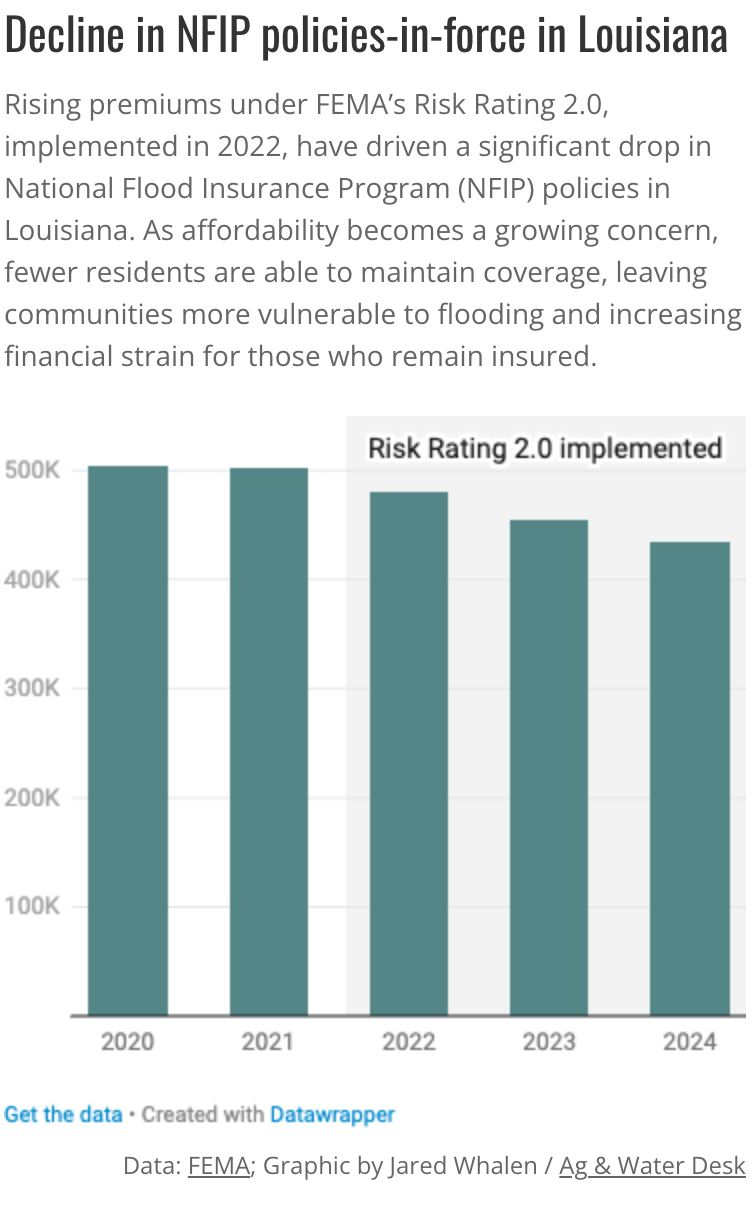
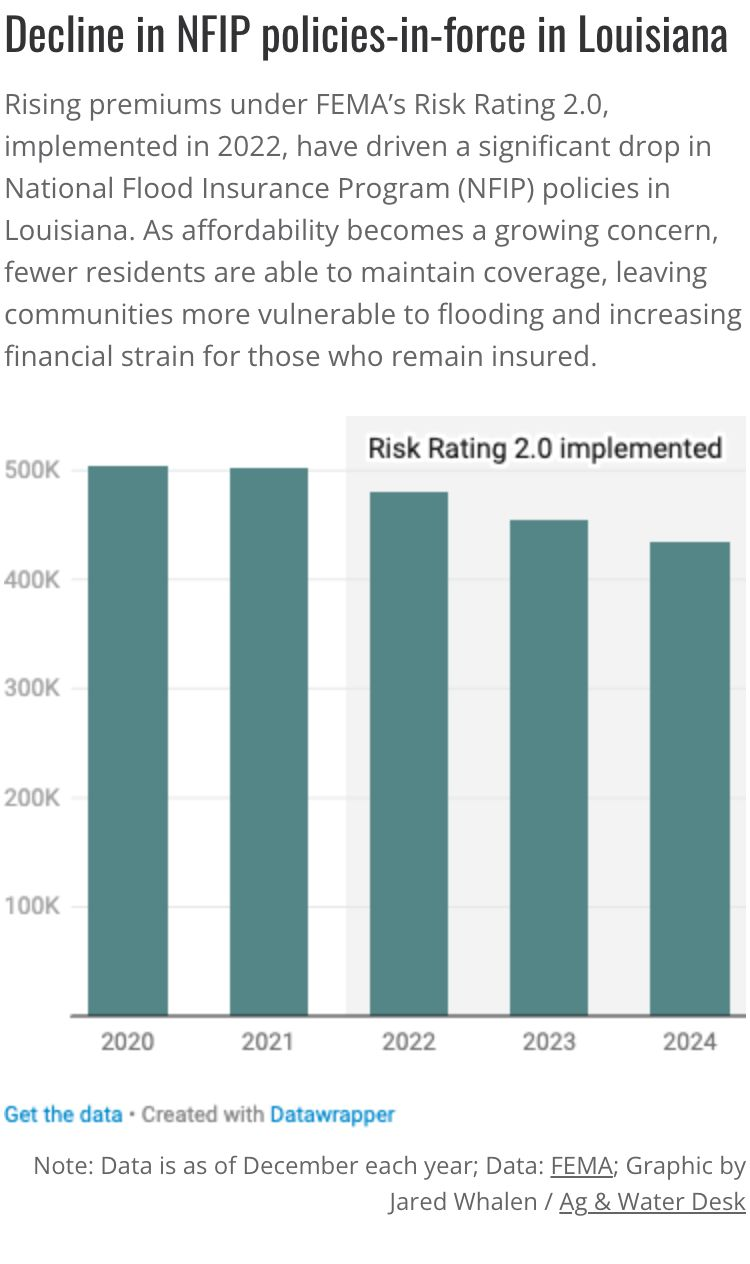
update github pages

diff --git a/docs/assets/bundle.js b/docs/assets/bundle.js
@@ -1,8 +1,8 @@
-var $e=Object.defineProperty;var xe=(e,t,n)=>t in e?$e(e,t,{enumerable:!0,configurable:!0,writable:!0,value:n}):e[t]=n;var V=(e,t,n)=>(xe(e,typeof t!="symbol"?t+"":t,n),n);(function(){const t=document.createElement("link").relList;if(t&&t.supports&&t.supports("modulepreload"))return;for(const r of document.querySelectorAll('link[rel="modulepreload"]'))i(r);new MutationObserver(r=>{for(const o of r)if(o.type==="childList")for(const g of o.addedNodes)g.tagName==="LINK"&&g.rel==="modulepreload"&&i(g)}).observe(document,{childList:!0,subtree:!0});function n(r){const o={};return r.integrity&&(o.integrity=r.integrity),r.referrerPolicy&&(o.referrerPolicy=r.referrerPolicy),r.crossOrigin==="use-credentials"?o.credentials="include":r.crossOrigin==="anonymous"?o.credentials="omit":o.credentials="same-origin",o}function i(r){if(r.ep)return;r.ep=!0;const o=n(r);fetch(r.href,o)}})();function y(){}function ve(e){return e()}function oe(){return Object.create(null)}function L(e){e.forEach(ve)}function U(e){return typeof e=="function"}function q(e,t){return e!=e?t==t:e!==t||e&&typeof e=="object"||typeof e=="function"}let k;function Me(e,t){return e===t?!0:(k||(k=document.createElement("a")),k.href=t,e===k.href)}function Te(e){return Object.keys(e).length===0}function be(e,...t){if(e==null){for(const i of t)i(void 0);return y}const n=e.subscribe(...t);return n.unsubscribe?()=>n.unsubscribe():n}function le(e,t,n){e.$$.on_destroy.push(be(t,n))}function ue(e,t,n){return e.set(n),t}const Ae=typeof window<"u"?window:typeof globalThis<"u"?globalThis:global;function x(e,t){e.appendChild(t)}function J(e,t,n){e.insertBefore(t,n||null)}function H(e){e.parentNode&&e.parentNode.removeChild(e)}function T(e){return document.createElement(e)}function Ce(e){return document.createTextNode(e)}function N(){return Ce(" ")}function X(e,t,n,i){return e.addEventListener(t,n,i),()=>e.removeEventListener(t,n,i)}function I(e,t,n){n==null?e.removeAttribute(t):e.getAttribute(t)!==n&&e.setAttribute(t,n)}function Pe(e){return Array.from(e.childNodes)}function G(e,t,n,i){n==null?e.style.removeProperty(t):e.style.setProperty(t,n,i?"important":"")}let j;function Se(){if(j===void 0){j=!1;try{typeof window<"u"&&window.parent&&window.parent.document}catch{j=!0}}return j}function We(e,t){getComputedStyle(e).position==="static"&&(e.style.position="relative");const i=T("iframe");i.setAttribute("style","display: block; position: absolute; top: 0; left: 0; width: 100%; height: 100%; overflow: hidden; border: 0; opacity: 0; pointer-events: none; z-index: -1;"),i.setAttribute("aria-hidden","true"),i.tabIndex=-1;const r=Se();let o;return r?(i.src="data:text/html,<script>onresize=function(){parent.postMessage(0,'*')}<\/script>",o=X(window,"message",g=>{g.source===i.contentWindow&&t()})):(i.src="about:blank",i.onload=()=>{o=X(i.contentWindow,"resize",t),t()}),x(e,i),()=>{(r||o&&i.contentWindow)&&o(),H(i)}}let O;function R(e){O=e}function Ne(){if(!O)throw new Error("Function called outside component initialization");return O}function Re(e){Ne().$$.on_mount.push(e)}const P=[],de=[];let S=[];const fe=[],He=Promise.resolve();let Q=!1;function Oe(){Q||(Q=!0,He.then(_e))}function F(e){S.push(e)}const K=new Set;let A=0;function _e(){if(A!==0)return;const e=O;do{try{for(;A<P.length;){const t=P[A];A++,R(t),Le(t.$$)}}catch(t){throw P.length=0,A=0,t}for(R(null),P.length=0,A=0;de.length;)de.pop()();for(let t=0;t<S.length;t+=1){const n=S[t];K.has(n)||(K.add(n),n())}S.length=0}while(P.length);for(;fe.length;)fe.pop()();Q=!1,K.clear(),R(e)}function Le(e){if(e.fragment!==null){e.update(),L(e.before_update);const t=e.dirty;e.dirty=[-1],e.fragment&&e.fragment.p(e.ctx,t),e.after_update.forEach(F)}}function ke(e){const t=[],n=[];S.forEach(i=>e.indexOf(i)===-1?t.push(i):n.push(i)),n.forEach(i=>i()),S=t}const B=new Set;let je;function Z(e,t){e&&e.i&&(B.delete(e),e.i(t))}function ce(e,t,n,i){if(e&&e.o){if(B.has(e))return;B.add(e),je.c.push(()=>{B.delete(e),i&&(n&&e.d(1),i())}),e.o(t)}else i&&i()}function he(e){e&&e.c()}function ee(e,t,n){const{fragment:i,after_update:r}=e.$$;i&&i.m(t,n),F(()=>{const o=e.$$.on_mount.map(ve).filter(U);e.$$.on_destroy?e.$$.on_destroy.push(...o):L(o),e.$$.on_mount=[]}),r.forEach(F)}function te(e,t){const n=e.$$;n.fragment!==null&&(ke(n.after_update),L(n.on_destroy),n.fragment&&n.fragment.d(t),n.on_destroy=n.fragment=null,n.ctx=[])}function ze(e,t){e.$$.dirty[0]===-1&&(P.push(e),Oe(),e.$$.dirty.fill(0)),e.$$.dirty[t/31|0]|=1<<t%31}function ie(e,t,n,i,r,o,g=null,h=[-1]){const w=O;R(e);const l=e.$$={fragment:null,ctx:[],props:o,update:y,not_equal:r,bound:oe(),on_mount:[],on_destroy:[],on_disconnect:[],before_update:[],after_update:[],context:new Map(t.context||(w?w.$$.context:[])),callbacks:oe(),dirty:h,skip_bound:!1,root:t.target||w.$$.root};g&&g(l.root);let _=!1;if(l.ctx=n?n(e,t.props||{},(m,u,...f)=>{const c=f.length?f[0]:u;return l.ctx&&r(l.ctx[m],l.ctx[m]=c)&&(!l.skip_bound&&l.bound[m]&&l.bound[m](c),_&&ze(e,m)),u}):[],l.update(),_=!0,L(l.before_update),l.fragment=i?i(l.ctx):!1,t.target){if(t.hydrate){const m=Pe(t.target);l.fragment&&l.fragment.l(m),m.forEach(H)}else l.fragment&&l.fragment.c();t.intro&&Z(e.$$.fragment),ee(e,t.target,t.anchor),_e()}R(w)}class se{constructor(){V(this,"$$");V(this,"$$set")}$destroy(){te(this,1),this.$destroy=y}$on(t,n){if(!U(n))return y;const i=this.$$.callbacks[t]||(this.$$.callbacks[t]=[]);return i.push(n),()=>{const r=i.indexOf(n);r!==-1&&i.splice(r,1)}}$set(t){this.$$set&&!Te(t)&&(this.$$.skip_bound=!0,this.$$set(t),this.$$.skip_bound=!1)}}const Be="4";typeof window<"u"&&(window.__svelte||(window.__svelte={v:new Set})).v.add(Be);var z=typeof globalThis<"u"?globalThis:typeof window<"u"?window:typeof global<"u"?global:typeof self<"u"?self:{};function ye(e){return e&&e.__esModule&&Object.prototype.hasOwnProperty.call(e,"default")?e.default:e}var Fe="Expected a function",ge=0/0,De="[object Symbol]",Ue=/^\s+|\s+$/g,qe=/^[-+]0x[0-9a-f]+$/i,Ve=/^0b[01]+$/i,Ge=/^0o[0-7]+$/i,Ke=parseInt,Ye=typeof z=="object"&&z&&z.Object===Object&&z,Je=typeof self=="object"&&self&&self.Object===Object&&self,Xe=Ye||Je||Function("return this")(),Qe=Object.prototype,Ze=Qe.toString,et=Math.max,tt=Math.min,Y=function(){return Xe.Date.now()};function nt(e,t,n){var i,r,o,g,h,w,l=0,_=!1,m=!1,u=!0;if(typeof e!="function")throw new TypeError(Fe);t=me(t)||0,ne(n)&&(_=!!n.leading,m="maxWait"in n,o=m?et(me(n.maxWait)||0,t):o,u="trailing"in n?!!n.trailing:u);function f(v){var M=i,W=r;return i=r=void 0,l=v,g=e.apply(W,M),g}function c(v){return l=v,h=setTimeout(a,t),_?f(v):g}function p(v){var M=v-w,W=v-l,ae=t-M;return m?tt(ae,o-W):ae}function s(v){var M=v-w,W=v-l;return w===void 0||M>=t||M<0||m&&W>=o}function a(){var v=Y();if(s(v))return d(v);h=setTimeout(a,p(v))}function d(v){return h=void 0,u&&i?f(v):(i=r=void 0,g)}function b(){h!==void 0&&clearTimeout(h),l=0,i=w=r=h=void 0}function E(){return h===void 0?g:d(Y())}function $(){var v=Y(),M=s(v);if(i=arguments,r=this,w=v,M){if(h===void 0)return c(w);if(m)return h=setTimeout(a,t),f(w)}return h===void 0&&(h=setTimeout(a,t)),g}return $.cancel=b,$.flush=E,$}function ne(e){var t=typeof e;return!!e&&(t=="object"||t=="function")}function it(e){return!!e&&typeof e=="object"}function st(e){return typeof e=="symbol"||it(e)&&Ze.call(e)==De}function me(e){if(typeof e=="number")return e;if(st(e))return ge;if(ne(e)){var t=typeof e.valueOf=="function"?e.valueOf():e;e=ne(t)?t+"":t}if(typeof e!="string")return e===0?e:+e;e=e.replace(Ue,"");var n=Ve.test(e);return n||Ge.test(e)?Ke(e.slice(2),n?2:8):qe.test(e)?ge:+e}var rt=nt;const pe=ye(rt),C=[];function at(e,t){return{subscribe:re(e,t).subscribe}}function re(e,t=y){let n;const i=new Set;function r(h){if(q(e,h)&&(e=h,n)){const w=!C.length;for(const l of i)l[1](),C.push(l,e);if(w){for(let l=0;l<C.length;l+=2)C[l][0](C[l+1]);C.length=0}}}function o(h){r(h(e))}function g(h,w=y){const l=[h,w];return i.add(l),i.size===1&&(n=t(r,o)||y),h(e),()=>{i.delete(l),i.size===0&&n&&(n(),n=null)}}return{set:r,update:o,subscribe:g}}function Ie(e,t,n){const i=!Array.isArray(e),r=i?[e]:e;if(!r.every(Boolean))throw new Error("derived() expects stores as input, got a falsy value");const o=t.length<2;return at(n,(g,h)=>{let w=!1;const l=[];let _=0,m=y;const u=()=>{if(_)return;m();const c=t(i?l[0]:l,g,h);o?g(c):m=U(c)?c:y},f=r.map((c,p)=>be(c,s=>{l[p]=s,_&=~(1<<p),w&&u()},()=>{_|=1<<p}));return w=!0,u(),function(){L(f),m(),w=!1}})}const D=re(window.innerWidth),we=re(window.innerHeight);Ie(D,e=>e<=560);Ie(D,e=>e>1200);const{window:ot}=Ae;function lt(e){let t,n;return{c:y,m(i,r){t||(n=X(ot,"resize",function(){U(pe(e[1],e[0]))&&pe(e[1],e[0]).apply(this,arguments)}),t=!0)},p(i,[r]){e=i},i:y,o:y,d(i){t=!1,n()}}}function ut(e,t,n){let i,r;le(e,we,h=>n(2,i=h)),le(e,D,h=>n(3,r=h));let{debounceDur:o=100}=t;const g=()=>{ue(D,r=window.innerWidth,r),ue(we,i=window.innerHeight,i)};return Re(()=>{g()}),e.$$set=h=>{"debounceDur"in h&&n(0,o=h.debounceDur)},[o,g]}class dt extends se{constructor(t){super(),ie(this,t,ut,lt,q,{debounceDur:0})}}function ft(e){let t,n;return{c(){t=T("iframe"),I(t,"title","Decline in NFIP policies-in-force in Louisiana"),I(t,"aria-label","Column Chart"),I(t,"id","datawrapper-chart-KzFxw"),Me(t.src,n="https://datawrapper.dwcdn.net/KzFxw/1/")||I(t,"src",n),I(t,"scrolling","no"),I(t,"frameborder","0"),G(t,"width","0"),G(t,"min-width","100%",1),G(t,"border","none"),I(t,"height","356"),I(t,"data-external","1")},m(i,r){J(i,t,r)},p:y,i:y,o:y,d(i){i&&H(t)}}}function ct(e){return function(){window.addEventListener("message",function(t){if(t.data["datawrapper-height"]!==void 0){var n=document.querySelectorAll("iframe");for(var i in t.data["datawrapper-height"])for(var r=0;r<n.length;r++)if(n[r].contentWindow===t.source){var o=t.data["datawrapper-height"][i]+"px";n[r].style.height=o}}})}(),[]}class ht extends se{constructor(t){super(),ie(this,t,ct,ft,q,{})}}var Ee={exports:{}};/*! pym.js - v1.3.2 - 2018-02-13 */(function(e){(function(t){e.exports?e.exports=t():window.pym=t.call(this)})(function(){var t="xPYMx",n={},i=function(u){var f=document.createEvent("Event");f.initEvent("pym:"+u,!0,!0),document.dispatchEvent(f)},r=function(u){var f=new RegExp("[\\?&]"+u.replace(/[\[]/,"\\[").replace(/[\]]/,"\\]")+"=([^&#]*)"),c=f.exec(location.search);return c===null?"":decodeURIComponent(c[1].replace(/\+/g," "))},o=function(u,f){if(!(f.xdomain!=="*"&&!u.origin.match(new RegExp(f.xdomain+"$")))&&typeof u.data=="string")return!0},g=function(u){var f=/^(?:(?:https?|mailto|ftp):|[^&:/?#]*(?:[/?#]|$))/gi;if(u.match(f))return!0},h=function(u,f,c){var p=["pym",u,f,c];return p.join(t)},w=function(u){var f=["pym",u,"(\\S+)","(.*)"];return new RegExp("^"+f.join(t)+"$")},l=Date.now||function(){return new Date().getTime()},_=function(u,f,c){var p,s,a,d=null,b=0;c||(c={});var E=function(){b=c.leading===!1?0:l(),d=null,a=u.apply(p,s),d||(p=s=null)};return function(){var $=l();!b&&c.leading===!1&&(b=$);var v=f-($-b);return p=this,s=arguments,v<=0||v>f?(d&&(clearTimeout(d),d=null),b=$,a=u.apply(p,s),d||(p=s=null)):!d&&c.trailing!==!1&&(d=setTimeout(E,v)),a}},m=function(){for(var u=n.autoInitInstances.length,f=u-1;f>=0;f--){var c=n.autoInitInstances[f];c.el.getElementsByTagName("iframe").length&&c.el.getElementsByTagName("iframe")[0].contentWindow||n.autoInitInstances.splice(f,1)}};return n.autoInitInstances=[],n.autoInit=function(u){var f=document.querySelectorAll("[data-pym-src]:not([data-pym-auto-initialized])"),c=f.length;m();for(var p=0;p<c;++p){var s=f[p];s.setAttribute("data-pym-auto-initialized",""),s.id===""&&(s.id="pym-"+p+"-"+Math.random().toString(36).substr(2,5));var a=s.getAttribute("data-pym-src"),d={xdomain:"string",title:"string",name:"string",id:"string",sandbox:"string",allowfullscreen:"boolean",parenturlparam:"string",parenturlvalue:"string",optionalparams:"boolean",trackscroll:"boolean",scrollwait:"number"},b={};for(var E in d)if(s.getAttribute("data-pym-"+E)!==null)switch(d[E]){case"boolean":b[E]=s.getAttribute("data-pym-"+E)!=="false";break;case"string":b[E]=s.getAttribute("data-pym-"+E);break;case"number":var $=Number(s.getAttribute("data-pym-"+E));isNaN($)||(b[E]=$);break;default:console.err("unrecognized attribute type")}var v=new n.Parent(s.id,a,b);n.autoInitInstances.push(v)}return u||i("pym-initialized"),n.autoInitInstances},n.Parent=function(u,f,c){this.id=u,this.url=f,this.el=document.getElementById(u),this.iframe=null,this.settings={xdomain:"*",optionalparams:!0,parenturlparam:"parentUrl",parenturlvalue:window.location.href,trackscroll:!1,scrollwait:100},this.messageRegex=w(this.id),this.messageHandlers={},c=c||{},this._constructIframe=function(){var s=this.el.offsetWidth.toString();this.iframe=document.createElement("iframe");var a="",d=this.url.indexOf("#");for(d>-1&&(a=this.url.substring(d,this.url.length),this.url=this.url.substring(0,d)),this.url.indexOf("?")<0?this.url+="?":this.url+="&",this.iframe.src=this.url+"initialWidth="+s+"&childId="+this.id,this.settings.optionalparams&&(this.iframe.src+="&parentTitle="+encodeURIComponent(document.title),this.iframe.src+="&"+this.settings.parenturlparam+"="+encodeURIComponent(this.settings.parenturlvalue)),this.iframe.src+=a,this.iframe.setAttribute("width","100%"),this.iframe.setAttribute("scrolling","no"),this.iframe.setAttribute("marginheight","0"),this.iframe.setAttribute("frameborder","0"),this.settings.title&&this.iframe.setAttribute("title",this.settings.title),this.settings.allowfullscreen!==void 0&&this.settings.allowfullscreen!==!1&&this.iframe.setAttribute("allowfullscreen",""),this.settings.sandbox!==void 0&&typeof this.settings.sandbox=="string"&&this.iframe.setAttribute("sandbox",this.settings.sandbox),this.settings.id&&(document.getElementById(this.settings.id)||this.iframe.setAttribute("id",this.settings.id)),this.settings.name&&this.iframe.setAttribute("name",this.settings.name);this.el.firstChild;)this.el.removeChild(this.el.firstChild);this.el.appendChild(this.iframe),window.addEventListener("resize",this._onResize),this.settings.trackscroll&&window.addEventListener("scroll",this._throttleOnScroll)},this._onResize=(function(){this.sendWidth(),this.settings.trackscroll&&this.sendViewportAndIFramePosition()}).bind(this),this._onScroll=(function(){this.sendViewportAndIFramePosition()}).bind(this),this._fire=function(s,a){if(s in this.messageHandlers)for(var d=0;d<this.messageHandlers[s].length;d++)this.messageHandlers[s][d].call(this,a)},this.remove=function(){window.removeEventListener("message",this._processMessage),window.removeEventListener("resize",this._onResize),this.el.removeChild(this.iframe),m()},this._processMessage=(function(s){if(o(s,this.settings)&&typeof s.data=="string"){var a=s.data.match(this.messageRegex);if(!a||a.length!==3)return!1;var d=a[1],b=a[2];this._fire(d,b)}}).bind(this),this._onHeightMessage=function(s){var a=parseInt(s);this.iframe.setAttribute("height",a+"px")},this._onNavigateToMessage=function(s){g(s)&&(document.location.href=s)},this._onScrollToChildPosMessage=function(s){var a=document.getElementById(this.id).getBoundingClientRect().top+window.pageYOffset,d=a+parseInt(s);window.scrollTo(0,d)},this.onMessage=function(s,a){s in this.messageHandlers||(this.messageHandlers[s]=[]),this.messageHandlers[s].push(a)},this.sendMessage=function(s,a){this.el.getElementsByTagName("iframe").length&&(this.el.getElementsByTagName("iframe")[0].contentWindow?this.el.getElementsByTagName("iframe")[0].contentWindow.postMessage(h(this.id,s,a),"*"):this.remove())},this.sendWidth=function(){var s=this.el.offsetWidth.toString();this.sendMessage("width",s)},this.sendViewportAndIFramePosition=function(){var s=this.iframe.getBoundingClientRect(),a=window.innerWidth||document.documentElement.clientWidth,d=window.innerHeight||document.documentElement.clientHeight,b=a+" "+d;b+=" "+s.top+" "+s.left,b+=" "+s.bottom+" "+s.right,this.sendMessage("viewport-iframe-position",b)};for(var p in c)this.settings[p]=c[p];return this._throttleOnScroll=_(this._onScroll.bind(this),this.settings.scrollwait),this.onMessage("height",this._onHeightMessage),this.onMessage("navigateTo",this._onNavigateToMessage),this.onMessage("scrollToChildPos",this._onScrollToChildPosMessage),this.onMessage("parentPositionInfo",this.sendViewportAndIFramePosition),window.addEventListener("message",this._processMessage,!1),this._constructIframe(),this},n.Child=function(u){this.parentWidth=null,this.id=null,this.parentTitle=null,this.parentUrl=null,this.settings={renderCallback:null,xdomain:"*",polling:0,parenturlparam:"parentUrl"},this.timerId=null,this.messageRegex=null,this.messageHandlers={},u=u||{},this.onMessage=function(s,a){s in this.messageHandlers||(this.messageHandlers[s]=[]),this.messageHandlers[s].push(a)},this._fire=function(s,a){if(s in this.messageHandlers)for(var d=0;d<this.messageHandlers[s].length;d++)this.messageHandlers[s][d].call(this,a)},this._processMessage=(function(s){if(o(s,this.settings)&&typeof s.data=="string"){var a=s.data.match(this.messageRegex);if(!(!a||a.length!==3)){var d=a[1],b=a[2];this._fire(d,b)}}}).bind(this),this._onWidthMessage=function(s){var a=parseInt(s);a!==this.parentWidth&&(this.parentWidth=a,this.settings.renderCallback&&this.settings.renderCallback(a),this.sendHeight())},this.sendMessage=function(s,a){window.parent.postMessage(h(this.id,s,a),"*")},this.sendHeight=(function(){var s=document.getElementsByTagName("body")[0].offsetHeight.toString();return this.sendMessage("height",s),s}).bind(this),this.getParentPositionInfo=function(){this.sendMessage("parentPositionInfo")},this.scrollParentTo=function(s){this.sendMessage("navigateTo","#"+s)},this.navigateParentTo=function(s){this.sendMessage("navigateTo",s)},this.scrollParentToChildEl=function(s){var a=document.getElementById(s).getBoundingClientRect().top+window.pageYOffset;this.scrollParentToChildPos(a)},this.scrollParentToChildPos=function(s){this.sendMessage("scrollToChildPos",s.toString())};var f=function(s){var a=document.getElementsByTagName("html")[0],d,b=a.className;try{window.self!==window.top?d="embedded":d="not-embedded"}catch{d="embedded"}b.indexOf(d)<0&&(a.className=b?b+" "+d:d,s&&s(d),i("marked-embedded"))};this.remove=function(){window.removeEventListener("message",this._processMessage),this.timerId&&clearInterval(this.timerId)};for(var c in u)this.settings[c]=u[c];this.id=r("childId")||u.id,this.messageRegex=new RegExp("^pym"+t+this.id+t+"(\\S+)"+t+"(.*)$");var p=parseInt(r("initialWidth"));return this.parentUrl=r(this.settings.parenturlparam),this.parentTitle=r("parentTitle"),this.onMessage("width",this._onWidthMessage),window.addEventListener("message",this._processMessage,!1),this.settings.renderCallback&&this.settings.renderCallback(p),this.sendHeight(),this.settings.polling&&(this.timerId=window.setInterval(this.sendHeight,this.settings.polling)),f(u.onMarkedEmbeddedStatus),this},typeof document<"u"&&n.autoInit(!0),n})})(Ee);var gt=Ee.exports;const mt=ye(gt);function pt(e){let t,n,i,r,o,g,h,w,l,_,m,u,f,c,p;return t=new dt({}),m=new ht({}),{c(){he(t.$$.fragment),n=N(),i=T("div"),r=T("h1"),r.textContent="Decline in NFIP policies-in-force in Louisiana",o=N(),g=T("p"),g.textContent=`Rising premiums under FEMA’s Risk Rating 2.0, implemented in 2022, have
+var $e=Object.defineProperty;var xe=(e,t,n)=>t in e?$e(e,t,{enumerable:!0,configurable:!0,writable:!0,value:n}):e[t]=n;var V=(e,t,n)=>(xe(e,typeof t!="symbol"?t+"":t,n),n);(function(){const t=document.createElement("link").relList;if(t&&t.supports&&t.supports("modulepreload"))return;for(const r of document.querySelectorAll('link[rel="modulepreload"]'))i(r);new MutationObserver(r=>{for(const o of r)if(o.type==="childList")for(const g of o.addedNodes)g.tagName==="LINK"&&g.rel==="modulepreload"&&i(g)}).observe(document,{childList:!0,subtree:!0});function n(r){const o={};return r.integrity&&(o.integrity=r.integrity),r.referrerPolicy&&(o.referrerPolicy=r.referrerPolicy),r.crossOrigin==="use-credentials"?o.credentials="include":r.crossOrigin==="anonymous"?o.credentials="omit":o.credentials="same-origin",o}function i(r){if(r.ep)return;r.ep=!0;const o=n(r);fetch(r.href,o)}})();function y(){}function ve(e){return e()}function oe(){return Object.create(null)}function L(e){e.forEach(ve)}function U(e){return typeof e=="function"}function q(e,t){return e!=e?t==t:e!==t||e&&typeof e=="object"||typeof e=="function"}let k;function Me(e,t){return e===t?!0:(k||(k=document.createElement("a")),k.href=t,e===k.href)}function Te(e){return Object.keys(e).length===0}function be(e,...t){if(e==null){for(const i of t)i(void 0);return y}const n=e.subscribe(...t);return n.unsubscribe?()=>n.unsubscribe():n}function le(e,t,n){e.$$.on_destroy.push(be(t,n))}function ue(e,t,n){return e.set(n),t}const Ae=typeof window<"u"?window:typeof globalThis<"u"?globalThis:global;function x(e,t){e.appendChild(t)}function J(e,t,n){e.insertBefore(t,n||null)}function H(e){e.parentNode&&e.parentNode.removeChild(e)}function T(e){return document.createElement(e)}function Ce(e){return document.createTextNode(e)}function W(){return Ce(" ")}function X(e,t,n,i){return e.addEventListener(t,n,i),()=>e.removeEventListener(t,n,i)}function I(e,t,n){n==null?e.removeAttribute(t):e.getAttribute(t)!==n&&e.setAttribute(t,n)}function Pe(e){return Array.from(e.childNodes)}function G(e,t,n,i){n==null?e.style.removeProperty(t):e.style.setProperty(t,n,i?"important":"")}let j;function Se(){if(j===void 0){j=!1;try{typeof window<"u"&&window.parent&&window.parent.document}catch{j=!0}}return j}function Ne(e,t){getComputedStyle(e).position==="static"&&(e.style.position="relative");const i=T("iframe");i.setAttribute("style","display: block; position: absolute; top: 0; left: 0; width: 100%; height: 100%; overflow: hidden; border: 0; opacity: 0; pointer-events: none; z-index: -1;"),i.setAttribute("aria-hidden","true"),i.tabIndex=-1;const r=Se();let o;return r?(i.src="data:text/html,<script>onresize=function(){parent.postMessage(0,'*')}<\/script>",o=X(window,"message",g=>{g.source===i.contentWindow&&t()})):(i.src="about:blank",i.onload=()=>{o=X(i.contentWindow,"resize",t),t()}),x(e,i),()=>{(r||o&&i.contentWindow)&&o(),H(i)}}let O;function R(e){O=e}function We(){if(!O)throw new Error("Function called outside component initialization");return O}function Re(e){We().$$.on_mount.push(e)}const P=[],de=[];let S=[];const fe=[],He=Promise.resolve();let Q=!1;function Oe(){Q||(Q=!0,He.then(_e))}function F(e){S.push(e)}const K=new Set;let A=0;function _e(){if(A!==0)return;const e=O;do{try{for(;A<P.length;){const t=P[A];A++,R(t),Le(t.$$)}}catch(t){throw P.length=0,A=0,t}for(R(null),P.length=0,A=0;de.length;)de.pop()();for(let t=0;t<S.length;t+=1){const n=S[t];K.has(n)||(K.add(n),n())}S.length=0}while(P.length);for(;fe.length;)fe.pop()();Q=!1,K.clear(),R(e)}function Le(e){if(e.fragment!==null){e.update(),L(e.before_update);const t=e.dirty;e.dirty=[-1],e.fragment&&e.fragment.p(e.ctx,t),e.after_update.forEach(F)}}function ke(e){const t=[],n=[];S.forEach(i=>e.indexOf(i)===-1?t.push(i):n.push(i)),n.forEach(i=>i()),S=t}const B=new Set;let je;function Z(e,t){e&&e.i&&(B.delete(e),e.i(t))}function ce(e,t,n,i){if(e&&e.o){if(B.has(e))return;B.add(e),je.c.push(()=>{B.delete(e),i&&(n&&e.d(1),i())}),e.o(t)}else i&&i()}function he(e){e&&e.c()}function ee(e,t,n){const{fragment:i,after_update:r}=e.$$;i&&i.m(t,n),F(()=>{const o=e.$$.on_mount.map(ve).filter(U);e.$$.on_destroy?e.$$.on_destroy.push(...o):L(o),e.$$.on_mount=[]}),r.forEach(F)}function te(e,t){const n=e.$$;n.fragment!==null&&(ke(n.after_update),L(n.on_destroy),n.fragment&&n.fragment.d(t),n.on_destroy=n.fragment=null,n.ctx=[])}function ze(e,t){e.$$.dirty[0]===-1&&(P.push(e),Oe(),e.$$.dirty.fill(0)),e.$$.dirty[t/31|0]|=1<<t%31}function ie(e,t,n,i,r,o,g=null,h=[-1]){const w=O;R(e);const l=e.$$={fragment:null,ctx:[],props:o,update:y,not_equal:r,bound:oe(),on_mount:[],on_destroy:[],on_disconnect:[],before_update:[],after_update:[],context:new Map(t.context||(w?w.$$.context:[])),callbacks:oe(),dirty:h,skip_bound:!1,root:t.target||w.$$.root};g&&g(l.root);let _=!1;if(l.ctx=n?n(e,t.props||{},(m,u,...f)=>{const c=f.length?f[0]:u;return l.ctx&&r(l.ctx[m],l.ctx[m]=c)&&(!l.skip_bound&&l.bound[m]&&l.bound[m](c),_&&ze(e,m)),u}):[],l.update(),_=!0,L(l.before_update),l.fragment=i?i(l.ctx):!1,t.target){if(t.hydrate){const m=Pe(t.target);l.fragment&&l.fragment.l(m),m.forEach(H)}else l.fragment&&l.fragment.c();t.intro&&Z(e.$$.fragment),ee(e,t.target,t.anchor),_e()}R(w)}class se{constructor(){V(this,"$$");V(this,"$$set")}$destroy(){te(this,1),this.$destroy=y}$on(t,n){if(!U(n))return y;const i=this.$$.callbacks[t]||(this.$$.callbacks[t]=[]);return i.push(n),()=>{const r=i.indexOf(n);r!==-1&&i.splice(r,1)}}$set(t){this.$$set&&!Te(t)&&(this.$$.skip_bound=!0,this.$$set(t),this.$$.skip_bound=!1)}}const Be="4";typeof window<"u"&&(window.__svelte||(window.__svelte={v:new Set})).v.add(Be);var z=typeof globalThis<"u"?globalThis:typeof window<"u"?window:typeof global<"u"?global:typeof self<"u"?self:{};function ye(e){return e&&e.__esModule&&Object.prototype.hasOwnProperty.call(e,"default")?e.default:e}var Fe="Expected a function",ge=0/0,De="[object Symbol]",Ue=/^\s+|\s+$/g,qe=/^[-+]0x[0-9a-f]+$/i,Ve=/^0b[01]+$/i,Ge=/^0o[0-7]+$/i,Ke=parseInt,Ye=typeof z=="object"&&z&&z.Object===Object&&z,Je=typeof self=="object"&&self&&self.Object===Object&&self,Xe=Ye||Je||Function("return this")(),Qe=Object.prototype,Ze=Qe.toString,et=Math.max,tt=Math.min,Y=function(){return Xe.Date.now()};function nt(e,t,n){var i,r,o,g,h,w,l=0,_=!1,m=!1,u=!0;if(typeof e!="function")throw new TypeError(Fe);t=me(t)||0,ne(n)&&(_=!!n.leading,m="maxWait"in n,o=m?et(me(n.maxWait)||0,t):o,u="trailing"in n?!!n.trailing:u);function f(v){var M=i,N=r;return i=r=void 0,l=v,g=e.apply(N,M),g}function c(v){return l=v,h=setTimeout(a,t),_?f(v):g}function p(v){var M=v-w,N=v-l,ae=t-M;return m?tt(ae,o-N):ae}function s(v){var M=v-w,N=v-l;return w===void 0||M>=t||M<0||m&&N>=o}function a(){var v=Y();if(s(v))return d(v);h=setTimeout(a,p(v))}function d(v){return h=void 0,u&&i?f(v):(i=r=void 0,g)}function b(){h!==void 0&&clearTimeout(h),l=0,i=w=r=h=void 0}function E(){return h===void 0?g:d(Y())}function $(){var v=Y(),M=s(v);if(i=arguments,r=this,w=v,M){if(h===void 0)return c(w);if(m)return h=setTimeout(a,t),f(w)}return h===void 0&&(h=setTimeout(a,t)),g}return $.cancel=b,$.flush=E,$}function ne(e){var t=typeof e;return!!e&&(t=="object"||t=="function")}function it(e){return!!e&&typeof e=="object"}function st(e){return typeof e=="symbol"||it(e)&&Ze.call(e)==De}function me(e){if(typeof e=="number")return e;if(st(e))return ge;if(ne(e)){var t=typeof e.valueOf=="function"?e.valueOf():e;e=ne(t)?t+"":t}if(typeof e!="string")return e===0?e:+e;e=e.replace(Ue,"");var n=Ve.test(e);return n||Ge.test(e)?Ke(e.slice(2),n?2:8):qe.test(e)?ge:+e}var rt=nt;const pe=ye(rt),C=[];function at(e,t){return{subscribe:re(e,t).subscribe}}function re(e,t=y){let n;const i=new Set;function r(h){if(q(e,h)&&(e=h,n)){const w=!C.length;for(const l of i)l[1](),C.push(l,e);if(w){for(let l=0;l<C.length;l+=2)C[l][0](C[l+1]);C.length=0}}}function o(h){r(h(e))}function g(h,w=y){const l=[h,w];return i.add(l),i.size===1&&(n=t(r,o)||y),h(e),()=>{i.delete(l),i.size===0&&n&&(n(),n=null)}}return{set:r,update:o,subscribe:g}}function Ie(e,t,n){const i=!Array.isArray(e),r=i?[e]:e;if(!r.every(Boolean))throw new Error("derived() expects stores as input, got a falsy value");const o=t.length<2;return at(n,(g,h)=>{let w=!1;const l=[];let _=0,m=y;const u=()=>{if(_)return;m();const c=t(i?l[0]:l,g,h);o?g(c):m=U(c)?c:y},f=r.map((c,p)=>be(c,s=>{l[p]=s,_&=~(1<<p),w&&u()},()=>{_|=1<<p}));return w=!0,u(),function(){L(f),m(),w=!1}})}const D=re(window.innerWidth),we=re(window.innerHeight);Ie(D,e=>e<=560);Ie(D,e=>e>1200);const{window:ot}=Ae;function lt(e){let t,n;return{c:y,m(i,r){t||(n=X(ot,"resize",function(){U(pe(e[1],e[0]))&&pe(e[1],e[0]).apply(this,arguments)}),t=!0)},p(i,[r]){e=i},i:y,o:y,d(i){t=!1,n()}}}function ut(e,t,n){let i,r;le(e,we,h=>n(2,i=h)),le(e,D,h=>n(3,r=h));let{debounceDur:o=100}=t;const g=()=>{ue(D,r=window.innerWidth,r),ue(we,i=window.innerHeight,i)};return Re(()=>{g()}),e.$$set=h=>{"debounceDur"in h&&n(0,o=h.debounceDur)},[o,g]}class dt extends se{constructor(t){super(),ie(this,t,ut,lt,q,{debounceDur:0})}}function ft(e){let t,n;return{c(){t=T("iframe"),I(t,"title","Decline in NFIP policies-in-force in Louisiana"),I(t,"aria-label","Column Chart"),I(t,"id","datawrapper-chart-KzFxw"),Me(t.src,n="https://datawrapper.dwcdn.net/KzFxw/1/")||I(t,"src",n),I(t,"scrolling","no"),I(t,"frameborder","0"),G(t,"width","0"),G(t,"min-width","100%",1),G(t,"border","none"),I(t,"height","356"),I(t,"data-external","1")},m(i,r){J(i,t,r)},p:y,i:y,o:y,d(i){i&&H(t)}}}function ct(e){return function(){window.addEventListener("message",function(t){if(t.data["datawrapper-height"]!==void 0){var n=document.querySelectorAll("iframe");for(var i in t.data["datawrapper-height"])for(var r=0;r<n.length;r++)if(n[r].contentWindow===t.source){var o=t.data["datawrapper-height"][i]+"px";n[r].style.height=o}}})}(),[]}class ht extends se{constructor(t){super(),ie(this,t,ct,ft,q,{})}}var Ee={exports:{}};/*! pym.js - v1.3.2 - 2018-02-13 */(function(e){(function(t){e.exports?e.exports=t():window.pym=t.call(this)})(function(){var t="xPYMx",n={},i=function(u){var f=document.createEvent("Event");f.initEvent("pym:"+u,!0,!0),document.dispatchEvent(f)},r=function(u){var f=new RegExp("[\\?&]"+u.replace(/[\[]/,"\\[").replace(/[\]]/,"\\]")+"=([^&#]*)"),c=f.exec(location.search);return c===null?"":decodeURIComponent(c[1].replace(/\+/g," "))},o=function(u,f){if(!(f.xdomain!=="*"&&!u.origin.match(new RegExp(f.xdomain+"$")))&&typeof u.data=="string")return!0},g=function(u){var f=/^(?:(?:https?|mailto|ftp):|[^&:/?#]*(?:[/?#]|$))/gi;if(u.match(f))return!0},h=function(u,f,c){var p=["pym",u,f,c];return p.join(t)},w=function(u){var f=["pym",u,"(\\S+)","(.*)"];return new RegExp("^"+f.join(t)+"$")},l=Date.now||function(){return new Date().getTime()},_=function(u,f,c){var p,s,a,d=null,b=0;c||(c={});var E=function(){b=c.leading===!1?0:l(),d=null,a=u.apply(p,s),d||(p=s=null)};return function(){var $=l();!b&&c.leading===!1&&(b=$);var v=f-($-b);return p=this,s=arguments,v<=0||v>f?(d&&(clearTimeout(d),d=null),b=$,a=u.apply(p,s),d||(p=s=null)):!d&&c.trailing!==!1&&(d=setTimeout(E,v)),a}},m=function(){for(var u=n.autoInitInstances.length,f=u-1;f>=0;f--){var c=n.autoInitInstances[f];c.el.getElementsByTagName("iframe").length&&c.el.getElementsByTagName("iframe")[0].contentWindow||n.autoInitInstances.splice(f,1)}};return n.autoInitInstances=[],n.autoInit=function(u){var f=document.querySelectorAll("[data-pym-src]:not([data-pym-auto-initialized])"),c=f.length;m();for(var p=0;p<c;++p){var s=f[p];s.setAttribute("data-pym-auto-initialized",""),s.id===""&&(s.id="pym-"+p+"-"+Math.random().toString(36).substr(2,5));var a=s.getAttribute("data-pym-src"),d={xdomain:"string",title:"string",name:"string",id:"string",sandbox:"string",allowfullscreen:"boolean",parenturlparam:"string",parenturlvalue:"string",optionalparams:"boolean",trackscroll:"boolean",scrollwait:"number"},b={};for(var E in d)if(s.getAttribute("data-pym-"+E)!==null)switch(d[E]){case"boolean":b[E]=s.getAttribute("data-pym-"+E)!=="false";break;case"string":b[E]=s.getAttribute("data-pym-"+E);break;case"number":var $=Number(s.getAttribute("data-pym-"+E));isNaN($)||(b[E]=$);break;default:console.err("unrecognized attribute type")}var v=new n.Parent(s.id,a,b);n.autoInitInstances.push(v)}return u||i("pym-initialized"),n.autoInitInstances},n.Parent=function(u,f,c){this.id=u,this.url=f,this.el=document.getElementById(u),this.iframe=null,this.settings={xdomain:"*",optionalparams:!0,parenturlparam:"parentUrl",parenturlvalue:window.location.href,trackscroll:!1,scrollwait:100},this.messageRegex=w(this.id),this.messageHandlers={},c=c||{},this._constructIframe=function(){var s=this.el.offsetWidth.toString();this.iframe=document.createElement("iframe");var a="",d=this.url.indexOf("#");for(d>-1&&(a=this.url.substring(d,this.url.length),this.url=this.url.substring(0,d)),this.url.indexOf("?")<0?this.url+="?":this.url+="&",this.iframe.src=this.url+"initialWidth="+s+"&childId="+this.id,this.settings.optionalparams&&(this.iframe.src+="&parentTitle="+encodeURIComponent(document.title),this.iframe.src+="&"+this.settings.parenturlparam+"="+encodeURIComponent(this.settings.parenturlvalue)),this.iframe.src+=a,this.iframe.setAttribute("width","100%"),this.iframe.setAttribute("scrolling","no"),this.iframe.setAttribute("marginheight","0"),this.iframe.setAttribute("frameborder","0"),this.settings.title&&this.iframe.setAttribute("title",this.settings.title),this.settings.allowfullscreen!==void 0&&this.settings.allowfullscreen!==!1&&this.iframe.setAttribute("allowfullscreen",""),this.settings.sandbox!==void 0&&typeof this.settings.sandbox=="string"&&this.iframe.setAttribute("sandbox",this.settings.sandbox),this.settings.id&&(document.getElementById(this.settings.id)||this.iframe.setAttribute("id",this.settings.id)),this.settings.name&&this.iframe.setAttribute("name",this.settings.name);this.el.firstChild;)this.el.removeChild(this.el.firstChild);this.el.appendChild(this.iframe),window.addEventListener("resize",this._onResize),this.settings.trackscroll&&window.addEventListener("scroll",this._throttleOnScroll)},this._onResize=(function(){this.sendWidth(),this.settings.trackscroll&&this.sendViewportAndIFramePosition()}).bind(this),this._onScroll=(function(){this.sendViewportAndIFramePosition()}).bind(this),this._fire=function(s,a){if(s in this.messageHandlers)for(var d=0;d<this.messageHandlers[s].length;d++)this.messageHandlers[s][d].call(this,a)},this.remove=function(){window.removeEventListener("message",this._processMessage),window.removeEventListener("resize",this._onResize),this.el.removeChild(this.iframe),m()},this._processMessage=(function(s){if(o(s,this.settings)&&typeof s.data=="string"){var a=s.data.match(this.messageRegex);if(!a||a.length!==3)return!1;var d=a[1],b=a[2];this._fire(d,b)}}).bind(this),this._onHeightMessage=function(s){var a=parseInt(s);this.iframe.setAttribute("height",a+"px")},this._onNavigateToMessage=function(s){g(s)&&(document.location.href=s)},this._onScrollToChildPosMessage=function(s){var a=document.getElementById(this.id).getBoundingClientRect().top+window.pageYOffset,d=a+parseInt(s);window.scrollTo(0,d)},this.onMessage=function(s,a){s in this.messageHandlers||(this.messageHandlers[s]=[]),this.messageHandlers[s].push(a)},this.sendMessage=function(s,a){this.el.getElementsByTagName("iframe").length&&(this.el.getElementsByTagName("iframe")[0].contentWindow?this.el.getElementsByTagName("iframe")[0].contentWindow.postMessage(h(this.id,s,a),"*"):this.remove())},this.sendWidth=function(){var s=this.el.offsetWidth.toString();this.sendMessage("width",s)},this.sendViewportAndIFramePosition=function(){var s=this.iframe.getBoundingClientRect(),a=window.innerWidth||document.documentElement.clientWidth,d=window.innerHeight||document.documentElement.clientHeight,b=a+" "+d;b+=" "+s.top+" "+s.left,b+=" "+s.bottom+" "+s.right,this.sendMessage("viewport-iframe-position",b)};for(var p in c)this.settings[p]=c[p];return this._throttleOnScroll=_(this._onScroll.bind(this),this.settings.scrollwait),this.onMessage("height",this._onHeightMessage),this.onMessage("navigateTo",this._onNavigateToMessage),this.onMessage("scrollToChildPos",this._onScrollToChildPosMessage),this.onMessage("parentPositionInfo",this.sendViewportAndIFramePosition),window.addEventListener("message",this._processMessage,!1),this._constructIframe(),this},n.Child=function(u){this.parentWidth=null,this.id=null,this.parentTitle=null,this.parentUrl=null,this.settings={renderCallback:null,xdomain:"*",polling:0,parenturlparam:"parentUrl"},this.timerId=null,this.messageRegex=null,this.messageHandlers={},u=u||{},this.onMessage=function(s,a){s in this.messageHandlers||(this.messageHandlers[s]=[]),this.messageHandlers[s].push(a)},this._fire=function(s,a){if(s in this.messageHandlers)for(var d=0;d<this.messageHandlers[s].length;d++)this.messageHandlers[s][d].call(this,a)},this._processMessage=(function(s){if(o(s,this.settings)&&typeof s.data=="string"){var a=s.data.match(this.messageRegex);if(!(!a||a.length!==3)){var d=a[1],b=a[2];this._fire(d,b)}}}).bind(this),this._onWidthMessage=function(s){var a=parseInt(s);a!==this.parentWidth&&(this.parentWidth=a,this.settings.renderCallback&&this.settings.renderCallback(a),this.sendHeight())},this.sendMessage=function(s,a){window.parent.postMessage(h(this.id,s,a),"*")},this.sendHeight=(function(){var s=document.getElementsByTagName("body")[0].offsetHeight.toString();return this.sendMessage("height",s),s}).bind(this),this.getParentPositionInfo=function(){this.sendMessage("parentPositionInfo")},this.scrollParentTo=function(s){this.sendMessage("navigateTo","#"+s)},this.navigateParentTo=function(s){this.sendMessage("navigateTo",s)},this.scrollParentToChildEl=function(s){var a=document.getElementById(s).getBoundingClientRect().top+window.pageYOffset;this.scrollParentToChildPos(a)},this.scrollParentToChildPos=function(s){this.sendMessage("scrollToChildPos",s.toString())};var f=function(s){var a=document.getElementsByTagName("html")[0],d,b=a.className;try{window.self!==window.top?d="embedded":d="not-embedded"}catch{d="embedded"}b.indexOf(d)<0&&(a.className=b?b+" "+d:d,s&&s(d),i("marked-embedded"))};this.remove=function(){window.removeEventListener("message",this._processMessage),this.timerId&&clearInterval(this.timerId)};for(var c in u)this.settings[c]=u[c];this.id=r("childId")||u.id,this.messageRegex=new RegExp("^pym"+t+this.id+t+"(\\S+)"+t+"(.*)$");var p=parseInt(r("initialWidth"));return this.parentUrl=r(this.settings.parenturlparam),this.parentTitle=r("parentTitle"),this.onMessage("width",this._onWidthMessage),window.addEventListener("message",this._processMessage,!1),this.settings.renderCallback&&this.settings.renderCallback(p),this.sendHeight(),this.settings.polling&&(this.timerId=window.setInterval(this.sendHeight,this.settings.polling)),f(u.onMarkedEmbeddedStatus),this},typeof document<"u"&&n.autoInit(!0),n})})(Ee);var gt=Ee.exports;const mt=ye(gt);function pt(e){let t,n,i,r,o,g,h,w,l,_,m,u,f,c,p;return t=new dt({}),m=new ht({}),{c(){he(t.$$.fragment),n=W(),i=T("div"),r=T("h1"),r.textContent="Decline in NFIP policies-in-force in Louisiana",o=W(),g=T("p"),g.textContent=`Rising premiums under FEMA’s Risk Rating 2.0, implemented in 2022, have
     driven a significant drop in National Flood Insurance Program (NFIP)
     policies in Louisiana. As affordability becomes a growing concern, fewer
     residents are able to maintain coverage, leaving communities more vulnerable
-    to flooding and increasing financial strain for those who remain insured.`,h=N(),w=T("p"),w.textContent=`Bar chart showing the number of active NFIP policies in Louisiana from 2020
+    to flooding and increasing financial strain for those who remain insured.`,h=W(),w=T("p"),w.textContent=`Bar chart showing the number of active NFIP policies in Louisiana from 2020
     to 2024, with a steady decline starting in 2022. The chart highlights the
-    impact of rising premiums under Risk Rating 2.0 on policy retention.`,l=N(),_=T("div"),he(m.$$.fragment),f=N(),c=T("div"),c.innerHTML=`Data: <a target="_blank" href="https://www.fema.gov/openfema-data-page/nfip-multiple-loss-properties-v1">FEMA</a>; Graphic by Jared Whalen /
-    <a target="_blank" href="https://agwaterdesk.org/">Ag &amp; Water Desk</a>`,I(r,"class","headline"),I(g,"class","dek"),I(w,"class","sr-only"),I(_,"id","g-viz"),F(()=>e[1].call(_)),I(c,"class","credit"),I(i,"class","chart-container svelte-1vs4stw")},m(s,a){ee(t,s,a),J(s,n,a),J(s,i,a),x(i,r),x(i,o),x(i,g),x(i,h),x(i,w),x(i,l),x(i,_),ee(m,_,null),u=We(_,e[1].bind(_)),x(i,f),x(i,c),p=!0},p:y,i(s){p||(Z(t.$$.fragment,s),Z(m.$$.fragment,s),p=!0)},o(s){ce(t.$$.fragment,s),ce(m.$$.fragment,s),p=!1},d(s){s&&(H(n),H(i)),te(t,s),te(m),u()}}}function wt(e,t,n){new mt.Child({polling:500});let i;function r(){i=this.clientWidth,n(0,i)}return[i,r]}class vt extends se{constructor(t){super(),ie(this,t,wt,pt,q,{})}}new vt({target:document.getElementById("app")});
+    impact of rising premiums under Risk Rating 2.0 on policy retention.`,l=W(),_=T("div"),he(m.$$.fragment),f=W(),c=T("div"),c.innerHTML=`Note: Data is as of December each year; Data: <a target="_blank" href="https://www.fema.gov/openfema-data-page/nfip-multiple-loss-properties-v1">FEMA</a>; Graphic by Jared Whalen /
+    <a target="_blank" href="https://agwaterdesk.org/">Ag &amp; Water Desk</a>`,I(r,"class","headline"),I(g,"class","dek"),I(w,"class","sr-only"),I(_,"id","g-viz"),F(()=>e[1].call(_)),I(c,"class","credit"),I(i,"class","chart-container svelte-1vs4stw")},m(s,a){ee(t,s,a),J(s,n,a),J(s,i,a),x(i,r),x(i,o),x(i,g),x(i,h),x(i,w),x(i,l),x(i,_),ee(m,_,null),u=Ne(_,e[1].bind(_)),x(i,f),x(i,c),p=!0},p:y,i(s){p||(Z(t.$$.fragment,s),Z(m.$$.fragment,s),p=!0)},o(s){ce(t.$$.fragment,s),ce(m.$$.fragment,s),p=!1},d(s){s&&(H(n),H(i)),te(t,s),te(m),u()}}}function wt(e,t,n){new mt.Child({polling:500});let i;function r(){i=this.clientWidth,n(0,i)}return[i,r]}class vt extends se{constructor(t){super(),ie(this,t,wt,pt,q,{})}}new vt({target:document.getElementById("app")});

diff --git a/src/App.svelte b/src/App.svelte
@@ -38,7 +38,7 @@
   </div>
 
   <div class="credit">
-    Data: <a
+    Note: Data is as of December each year; Data: <a
       target="_blank"
       href="https://www.fema.gov/openfema-data-page/nfip-multiple-loss-properties-v1"
       >FEMA</a
